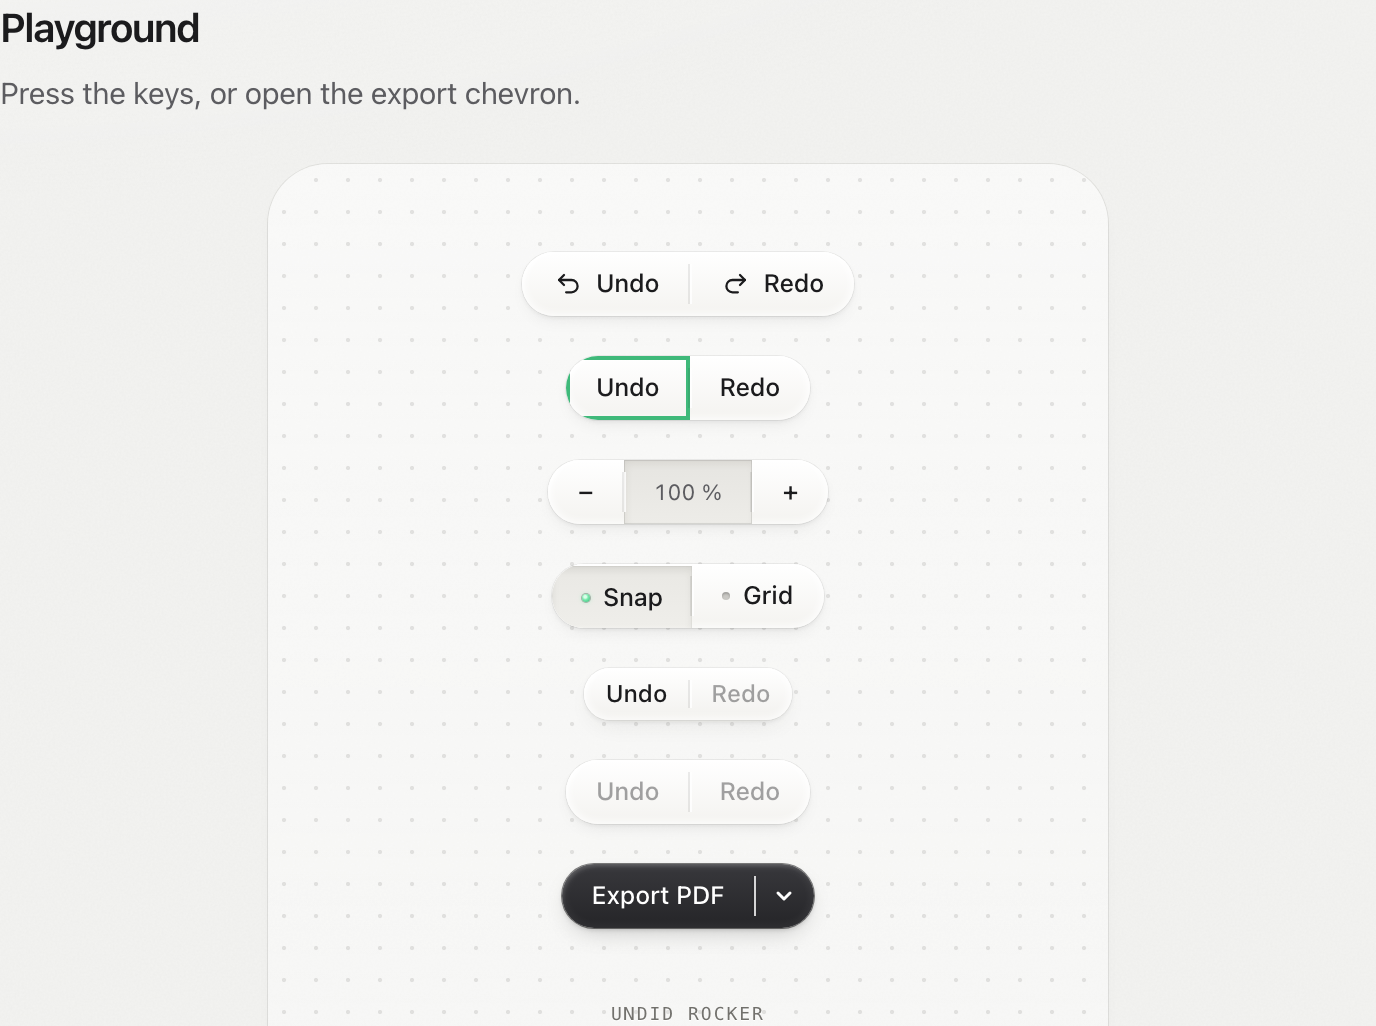
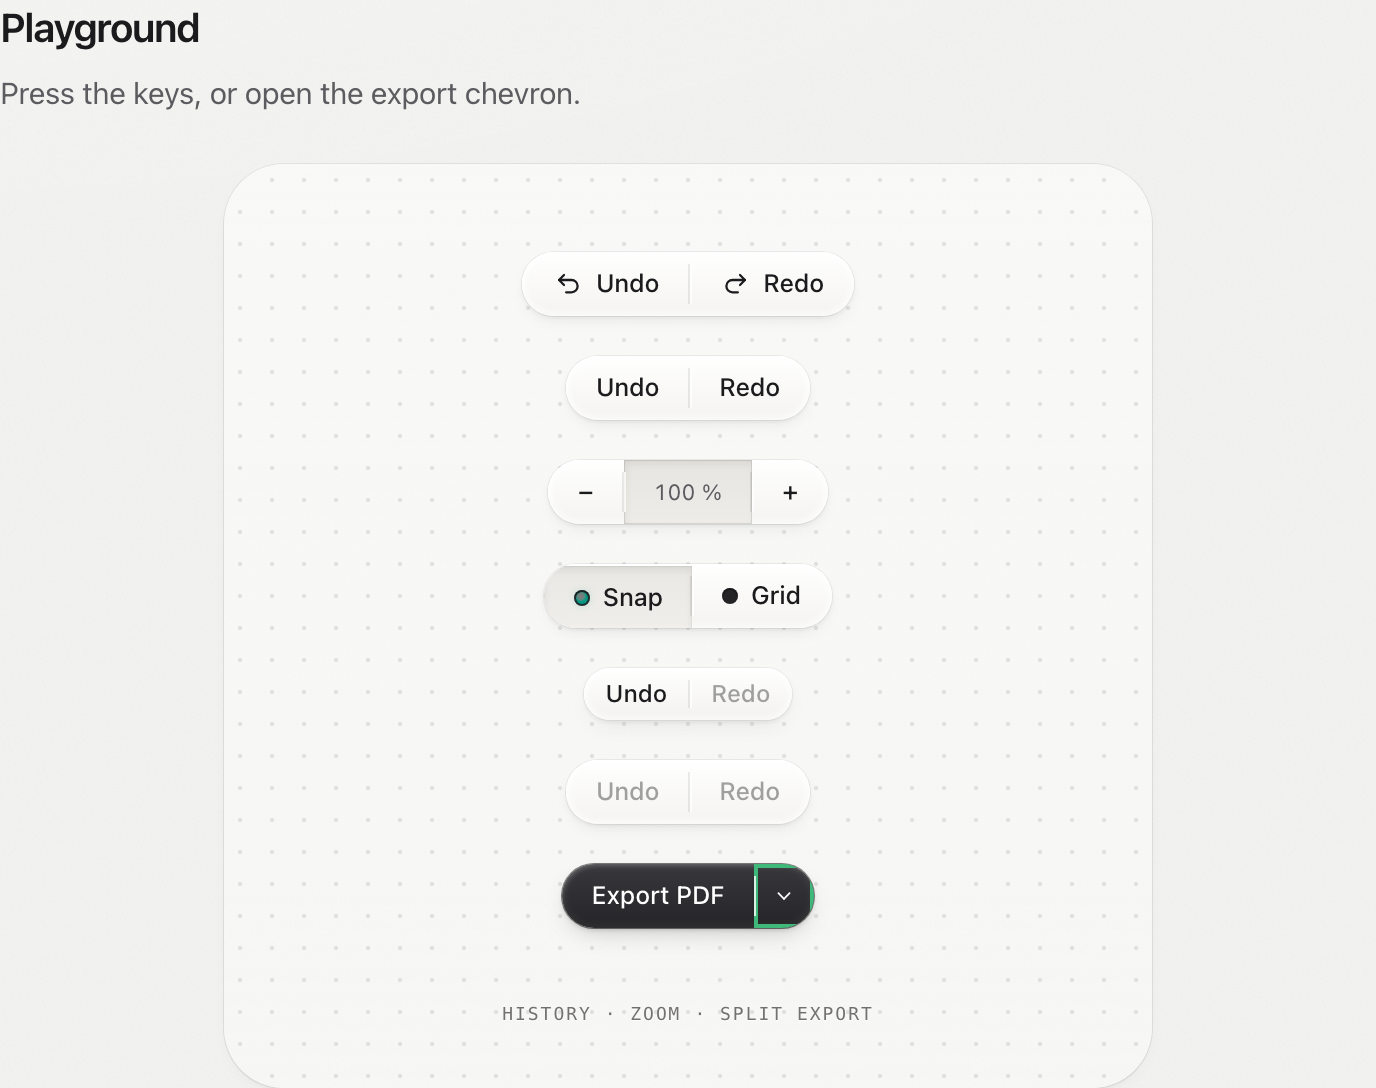
feat(button-group): morph the shared split glyph

diff --git a/apps/docs/src/pages/components/ButtonGroup.tsx b/apps/docs/src/pages/components/ButtonGroup.tsx
@@ -14,7 +14,7 @@ import { ComponentPage } from '../../ui/ComponentPage';
  * CLUSTER TUNER: the page's DialKit panel
  *
  *   rocker   optional one-degree tilt toward the operated key
- *   chevron  the spring the chevron turns on
+ *   rocker   the spring the optional bar tips on
  * ───────────────────────────────────────────────────────── */
 
 function Examples({ onDid }: { onDid: (s: string) => void }) {
@@ -59,9 +59,9 @@ function Examples({ onDid }: { onDid: (s: string) => void }) {
 function ClusterTuner() {
   const d = useDialKit('Button cluster', {
     rockerAngle: [1, 0, 2],
-    chevron: { type: 'select', options: SPRING_NAMES, default: 'part' },
+    rockerSpring: { type: 'select', options: SPRING_NAMES, default: 'part' },
   });
-  const vars = { ...springVars('part', d.chevron as SpringName), '--mu-r-button-group-rocker-angle': `${d.rockerAngle}deg` } as React.CSSProperties;
+  const vars = { ...springVars('part', d.rockerSpring as SpringName), '--mu-r-button-group-rocker-angle': `${d.rockerAngle}deg` } as React.CSSProperties;
   return <div data-testid="button-cluster-tuner" style={vars}><Examples onDid={() => {}} /></div>;
 }
 
@@ -72,7 +72,7 @@ export default function ButtonGroupPage() {
       title="Button group"
       lede="Related actions cut from one raised bar, with engraved seams and square interior faces. Each key presses inside its segment. A split button keeps the main action and its alternatives in the same material."
       play={{ lede: 'Press the keys, or open the export chevron.', caption: did ?? 'history · zoom · split export', node: <Examples onDid={setDid} /> }}
-      more={[{ id: 'cluster', title: 'Tune the cluster', lede: 'Tune the optional rocker angle and chevron spring. The bar keeps zero gaps and square interior edges.', node: <ClusterTuner /> }]}
+      more={[{ id: 'cluster', title: 'Tune the cluster', lede: 'Tune the optional rocker angle and its spring. The bar keeps zero gaps and square interior edges.', node: <ClusterTuner /> }]}
       usage={`<ButtonGroup aria-label="History">
   <Button onClick={undo}>Undo</Button>
   <Button onClick={redo}>Redo</Button>
@@ -95,7 +95,7 @@ export default function ButtonGroupPage() {
       rules={[
         { id: 'BG1', title: 'One machined bar', body: 'Only the outer ends round. Seams stay fixed while each face sinks. A readout is a window with no click or tab stop.', origin: 'Ours' },
         { id: 'BG2', title: 'A latch says it stays', body: 'ToggleGroup joined uses the same bar, with Base UI arrow navigation and a lamp on each latched segment. ButtonGroup actions keep separate tab stops.', origin: 'Ours' },
-        { id: 'BG3', title: 'The main action first', body: 'A split button leads with what most people want; the chevron holds the rest.', origin: 'Ours' },
+        { id: 'BG3', title: 'The main action first', body: 'A split button leads with what most people want; the shared chevron morphs down to up while its alternatives are open, on the glyph settle spring.', origin: 'Ours' },
       ]}
     />
   );

diff --git a/e2e/button-group.spec.ts b/e2e/button-group.spec.ts
@@ -6,6 +6,11 @@ import { COLORWAYS, capture, open } from './helpers';
 const play = (page: import('@playwright/test').Page) => page.locator('section', { hasText: 'Playground' }).first();
 const lift = (el: import('@playwright/test').Locator) => el.evaluate((e) => { const t = getComputedStyle(e).translate; return t === 'none' ? 0 : parseFloat(t.split(' ')[1] ?? '0'); });
 
+const direction = (el: import('@playwright/test').Locator) => el.locator('.mu-morph-icon > path').first().evaluate((node) => {
+  const path = node as SVGPathElement, end = path.getPointAtLength(0), corner = path.getPointAtLength(path.getTotalLength());
+  return corner.y < end.y ? 'up' : 'down';
+});
+
 for (const colorway of COLORWAYS) {
   test(`keys press alone; the split chevron opens the other ways, in ${colorway}`, async ({ page }) => {
     await open(page, '/components/button-group', colorway);
@@ -28,12 +33,13 @@ for (const colorway of COLORWAYS) {
     await chevron.click();
     const menu = page.getByRole('menu');
     await expect(menu).toBeVisible();
-    await expect.poll(() => chevron.locator('svg').evaluate((s) => getComputedStyle(s).rotate)).toBe('180deg');
+    await expect(chevron.locator('svg')).toHaveClass(/mu-morph-icon/);
+    await expect.poll(() => direction(chevron)).toBe('up');
     await page.waitForTimeout(400);
     await page.screenshot({ path: capture(`button-group-${colorway}`), clip: { ...(await play(page).boundingBox())! } });
     await menu.getByRole('menuitem', { name: 'SVG' }).click();
     await expect(play(page)).toContainText('Exported SVG');
-    await expect.poll(() => chevron.locator('svg').evaluate((s) => getComputedStyle(s).rotate)).toMatch(/^(0deg|none)$/);
+    await expect.poll(() => direction(chevron)).toBe('down');
   });
 }
 
@@ -117,4 +123,24 @@ test('latched bar retains lamps and Base UI arrows; rocker has no reduced tilt',
   await page.keyboard.up('Space');
   await page.mouse.move(0, 0);
   await page.screenshot({ path: capture('button-group-reduced'), clip: (await demo.boundingBox())! });
+});
+
+
+test('split glyph cancels into its orientation when the scope reduces during opening', async ({ page }) => {
+  await open(page, '/components/button-group', 'bone');
+  const key = play(page).getByRole('button', { name: 'More export options' });
+  const group = play(page).getByRole('group', { name: 'More export options', exact: true });
+  await key.press('ArrowDown');
+  await expect(page.getByRole('menu')).toBeVisible();
+  await group.evaluate(el => el.setAttribute('data-mu-motion', 'reduce'));
+  await expect.poll(() => direction(key)).toBe('up');
+  const glyph = key.locator('svg');
+  expect(await glyph.evaluate(el => getComputedStyle(el).rotate)).toBe('none');
+  const landed = await glyph.innerHTML();
+  await page.waitForTimeout(150);
+  expect(await glyph.innerHTML()).toBe(landed);
+  await page.keyboard.press('Escape');
+  await expect(key).toBeFocused();
+  await expect.poll(() => direction(key)).toBe('down');
+  await play(page).screenshot({ path: capture('button-group-reduced') });
 });

diff --git a/packages/metalui/src/components/button-group/button-group.tsx b/packages/metalui/src/components/button-group/button-group.tsx
@@ -3,6 +3,7 @@
 import * as React from 'react';
 import { Menu } from '../menu/menu';
 import { Button, type ButtonProps } from '../button/button';
+import { MorphIcon } from '../../icons/MorphIcon';
 import { SwapText } from '../../motion/swap';
 
 /* ─────────────────────────────────────────────────────────
@@ -10,7 +11,7 @@ import { SwapText } from '../../motion/swap';
  *       rest   one raised bar; fixed engraved seams; square interior faces
  *        0ms   one key sinks 1px in press50; neighbours and seams stay still
  *     release  key returns on release spring; optional rocker returns on part
- *       open   split chevron stays sunk; turns180 on part while menu exists
+ *       open   split chevron stays sunk; morphs down → up on settle while menu exists
  *       value  noninteractive display turns its digits on settle, no tab stop
  *       latch  Toggle keeps its own lamp and sunk face inside the same bar
  * Reduced: no rocker tilt; chevron snaps; readout crossfades.
@@ -19,7 +20,7 @@ import { SwapText } from '../../motion/swap';
 const BAR = 'mu-button-group inline-flex items-stretch rounded-pill recipe-button button-group-bar text-ink';
 const SEGMENT = 'inline-flex button-group-seam';
 const CLIP = 'inline-flex items-stretch overflow-hidden rounded-pill';
-const CHEVRON = 'size-button-group-chevron-glyph button-group-chevron reduced-motion:transition-none';
+const CHEVRON = 'size-button-group-chevron-glyph';
 
 export interface ButtonGroupProps extends React.HTMLAttributes<HTMLDivElement> {
   'aria-label': string;
@@ -87,7 +88,7 @@ export function SplitButton({ children, menu, menuLabel, heading, disabled }: Sp
     {children}
     <Menu heading={heading} align="end" open={open} onOpenChange={setOpen}
       trigger={<Button cap={cap} size={size} disabled={unavailable} aria-label={menuLabel} className="w-button-group-chevron-width px-0!">
-        <span className="inline-flex"><svg aria-hidden viewBox="0 0 12 12" className={CHEVRON} fill="none" stroke="currentColor" strokeWidth={1.5} strokeLinecap="round" strokeLinejoin="round"><path d="M3 4.5 6 7.5l3-3" /></svg></span>
+        <span className="inline-flex"><MorphIcon name="chevron" turn={open ? 180 : 0} className={CHEVRON} /></span>
       </Button>}>
       {menu}
     </Menu>

diff --git a/packages/metalui/src/components/theme.css b/packages/metalui/src/components/theme.css
@@ -1615,9 +1615,6 @@
 @utility recipe-button-group-key-hover {
   background: var(--mu-r-button-group-key-hover-background);
 }
-@utility button-group-chevron {
-  transition: rotate var(--mu-spring-part-d) var(--mu-spring-part); [data-popup-open] & { rotate: var(--mu-r-button-group-chevron-turn); }
-}
 @utility button-group-bar {
   position: relative; --mu-group-pressed-background: var(--mu-r-button-self-pressed-background); --mu-group-pressed-shadow: var(--mu-r-button-self-pressed-shadow); &[data-cap=primary] { --mu-group-pressed-background: var(--mu-r-button-primary-pressed-background); --mu-group-pressed-shadow: var(--mu-r-button-primary-pressed-shadow); color: var(--mu-r-button-primary-ink); } & :is(.mu-button, .mu-toggle) { position: relative; background: transparent; box-shadow: none; border-radius: 0; color: inherit; outline-offset: calc(-1 * var(--mu-r-button-self-focus-width)); } & :is(.mu-button, .mu-toggle):not([data-disabled]):not(:disabled):is(:active, [data-pressed], [data-popup-open], [data-state=waiting]) { background: var(--mu-group-pressed-background); box-shadow: var(--mu-group-pressed-shadow); } & .mu-button[data-popup-open] { translate: 0 var(--mu-r-button-self-travel); } & :is(.mu-button, .mu-toggle):not([data-disabled]):not(:disabled):not(:active):not([data-pressed]):not([data-popup-open]):not([data-state=waiting]):hover { background: var(--mu-r-button-group-key-hover-background); } &[data-size=compact][data-cap=standard] { --mu-group-pressed-background: var(--mu-r-button-compact-background); --mu-group-pressed-shadow: var(--mu-r-button-compact-pressed-shadow); } & :is(.mu-button, .mu-toggle):focus-visible { outline-offset: calc(-1 * var(--mu-r-button-self-focus-width)); }
 }

diff --git a/swift/Sources/MetalUI/Tokens/MetalTokens.generated.swift b/swift/Sources/MetalUI/Tokens/MetalTokens.generated.swift
@@ -998,7 +998,7 @@ public enum MetalRecipes {
         ]
     )
 
-    /// One raised machined bar of related keys, outer pill radius only, fixed engraved seams and square interior edges. Keys sink alone; a noninteractive window carries readouts. Split keeps one cap material and its chevron held while open. Optional two-key rocker tips one degree on the part spring; Reduce Motion has no tilt. (button raised and pressed recipes; rule engraved seam; field well window; part spring; existing cap dimensions)
+    /// One raised machined bar of related keys, outer pill radius only, fixed engraved seams and square interior edges. Keys sink alone; a noninteractive window carries readouts. Split keeps one cap material and its menu segment held while open; the shared chevron morphs down to up on the glyph settle. Optional two-key rocker tips one degree on the part spring; Reduce Motion has no tilt. (button raised and pressed recipes; rule engraved seam; field well window; part spring; existing cap dimensions)
     public static let buttonGroup = MetalObjectRecipe(
         name: "button-group",
         layers: [
@@ -1010,7 +1010,6 @@ public enum MetalRecipes {
             "key.radius": .number(0.0),
             "chevron.width": .number(30.0),
             "chevron.glyph": .number(12.0),
-            "chevron.turn": .text("180deg"),
             "rocker.angle": .text("1deg"),
             "seam.inset": .text("var(--mu-nest)"),
             "seam.width": .text("var(--mu-r-rule-self-thickness)"),

diff --git a/swift/Sources/MetalUI/Components/MetalButtonGroup.swift b/swift/Sources/MetalUI/Components/MetalButtonGroup.swift
@@ -134,14 +134,10 @@ public struct MetalSplitButton<Primary: View>: View {
     }
     public var body: some View {
         let recipe = MetalRecipes.buttonGroup
-        let turn = Double(recipe.text("chevron.turn")?.replacingOccurrences(of: "deg", with: "") ?? "") ?? .zero
         MetalButtonGroup(label, cap: cap, size: size) {
             primary
             Button { open.toggle() } label: {
-                Image(systemName: "chevron.down")
-                    .font(MetalRecipes.button.font("compact.font"))
-                    .rotationEffect(.degrees(open ? turn : .zero))
-                    .metalAnimation(.part, value: open)
+                MetalMorphIcon(.chevron, size: recipe.points("chevron.glyph"), turn: open ? .up : .down)
             }
             .buttonStyle(MetalButtonStyle(cap: cap, size: size))
             .environment(\.metalButtonGroupLatched, open)

diff --git a/packages/metalui/src/components/tokens.css b/packages/metalui/src/components/tokens.css
@@ -1106,7 +1106,6 @@
   --mu-r-button-group-key-radius: 0px;
   --mu-r-button-group-chevron-width: 30px;
   --mu-r-button-group-chevron-glyph: 12px;
-  --mu-r-button-group-chevron-turn: 180deg;
   --mu-r-button-group-rocker-angle: 1deg;
   --mu-r-button-group-seam-inset: var(--mu-nest);
   --mu-r-button-group-seam-width: var(--mu-r-rule-self-thickness);

diff --git a/docs/BUTTON-GROUP-DESIGN.md b/docs/BUTTON-GROUP-DESIGN.md
@@ -13,6 +13,6 @@ The MetalUI sketch follows the owner's explicit machined-bar direction:
 
 The existing Button material draws the outer bar. Its recipe has no trough padding or key gaps. Interior faces are square. Rule cuts a one-point dark line and light edge, inset by one nest. Each face owns its press shading and one-point travel; neighbours and the groove stay still. A very faint white light on the hovered face comes from a shared recipe, never a bar-wide lift. Focus is inset by the existing Button ring width.
 
-Storyboard: press begins at zero, the handled face sinks over Button press50ms, then returns on release; the optional two-key rocker also tips one degree on part and springs back. In a split button, the menu segment stays held until the menu closes and its chevron turns180 on part. A display uses the existing label drum on settle. Reduce Motion removes rocker tilt and snaps chevron orientation; label changes keep their crossfade. All timings and material values are existing recipes; the optional angle is a reviewed source token.
+Storyboard: press begins at zero, the handled face sinks over Button press50ms, then returns on release; the optional two-key rocker also tips one degree on part and springs back. In a split button, the menu segment stays held until the menu closes and its shared chevron morphs down to up on the glyph settle. A display uses the existing label drum on settle. Reduce Motion removes rocker tilt and snaps chevron orientation; label changes keep their crossfade. All timings and material values are existing recipes; the optional angle is a reviewed source token.
 
 The rocker is an opt-in exploration with its own specimen. It never applies to the zoom window, latched controls or a longer action group. Compact, per-key disabled, whole-group disabled, keyboard focus and both colorways have real specimens on the documentation page.

diff --git a/packages/metalui/public/AI.md b/packages/metalui/public/AI.md
@@ -714,7 +714,7 @@ One Button recipe draws the whole bar. Padding and gaps are zero; only the outer
 
 A `ButtonGroupReadout` is an output window in the field well recipe. Its figures turn with SwapText (Swift numericText), are tabular, and never become a keyboard stop. Reset requires a separately named action rather than an invisible click on the number.
 
-SplitButton infers cap and size from its main Button. Both halves inherit one material and ink. Its chevron is behind a seam, width30/glyph12, and stays sunk while the Base UI menu is open. Escape/outside close returns focus; choosing an alternative closes the menu. Waiting/done/disabled on the main key also disables alternatives. Use a primary cap on the main Button when this is the group's signal operation.
+SplitButton infers cap and size from its main Button. Both halves inherit one material and ink. Its chevron is behind a seam, width30/glyph12, and stays sunk while the Base UI menu is open. The shared chevron morphs down ↔ up on the glyph settle in React and Swift; no second CSS rotation runs. Reduced motion lands immediately. Escape/outside close returns focus; choosing an alternative closes the menu. Waiting/done/disabled on the main key also disables alternatives. Use a primary cap on the main Button when this is the group's signal operation.
 
 ## API
 

diff --git a/packages/metalui/public/r/button-group.md b/packages/metalui/public/r/button-group.md
@@ -14,7 +14,7 @@ One Button recipe draws the whole bar. Padding and gaps are zero; only the outer
 
 A `ButtonGroupReadout` is an output window in the field well recipe. Its figures turn with SwapText (Swift numericText), are tabular, and never become a keyboard stop. Reset requires a separately named action rather than an invisible click on the number.
 
-SplitButton infers cap and size from its main Button. Both halves inherit one material and ink. Its chevron is behind a seam, width30/glyph12, and stays sunk while the Base UI menu is open. Escape/outside close returns focus; choosing an alternative closes the menu. Waiting/done/disabled on the main key also disables alternatives. Use a primary cap on the main Button when this is the group's signal operation.
+SplitButton infers cap and size from its main Button. Both halves inherit one material and ink. Its chevron is behind a seam, width30/glyph12, and stays sunk while the Base UI menu is open. The shared chevron morphs down ↔ up on the glyph settle in React and Swift; no second CSS rotation runs. Reduced motion lands immediately. Escape/outside close returns focus; choosing an alternative closes the menu. Waiting/done/disabled on the main key also disables alternatives. Use a primary cap on the main Button when this is the group's signal operation.
 
 ## API
 

diff --git a/packages/metalui/src/components/button-group/button-group.agent.md b/packages/metalui/src/components/button-group/button-group.agent.md
@@ -14,7 +14,7 @@ One Button recipe draws the whole bar. Padding and gaps are zero; only the outer
 
 A `ButtonGroupReadout` is an output window in the field well recipe. Its figures turn with SwapText (Swift numericText), are tabular, and never become a keyboard stop. Reset requires a separately named action rather than an invisible click on the number.
 
-SplitButton infers cap and size from its main Button. Both halves inherit one material and ink. Its chevron is behind a seam, width30/glyph12, and stays sunk while the Base UI menu is open. Escape/outside close returns focus; choosing an alternative closes the menu. Waiting/done/disabled on the main key also disables alternatives. Use a primary cap on the main Button when this is the group's signal operation.
+SplitButton infers cap and size from its main Button. Both halves inherit one material and ink. Its chevron is behind a seam, width30/glyph12, and stays sunk while the Base UI menu is open. The shared chevron morphs down ↔ up on the glyph settle in React and Swift; no second CSS rotation runs. Reduced motion lands immediately. Escape/outside close returns focus; choosing an alternative closes the menu. Waiting/done/disabled on the main key also disables alternatives. Use a primary cap on the main Button when this is the group's signal operation.
 
 ## API
 

diff --git a/docs/BACKLOG.md b/docs/BACKLOG.md
@@ -110,7 +110,7 @@ Rules to adopt first (one layer, in the Button foundation and agent guides):
 - [x] select
 - [x] table
 - [x] breadcrumbs
-- [ ] button-group (split chevron)
+- [x] button-group (shared split chevron morph in React and Swift)
 - [x] folder: audited; its SVG paths draw the paper/flap edges and clipping, so stay as object geometry.
 - [x] number-field (shared minus and plus)
 - [ ] fan (‹ as text)
